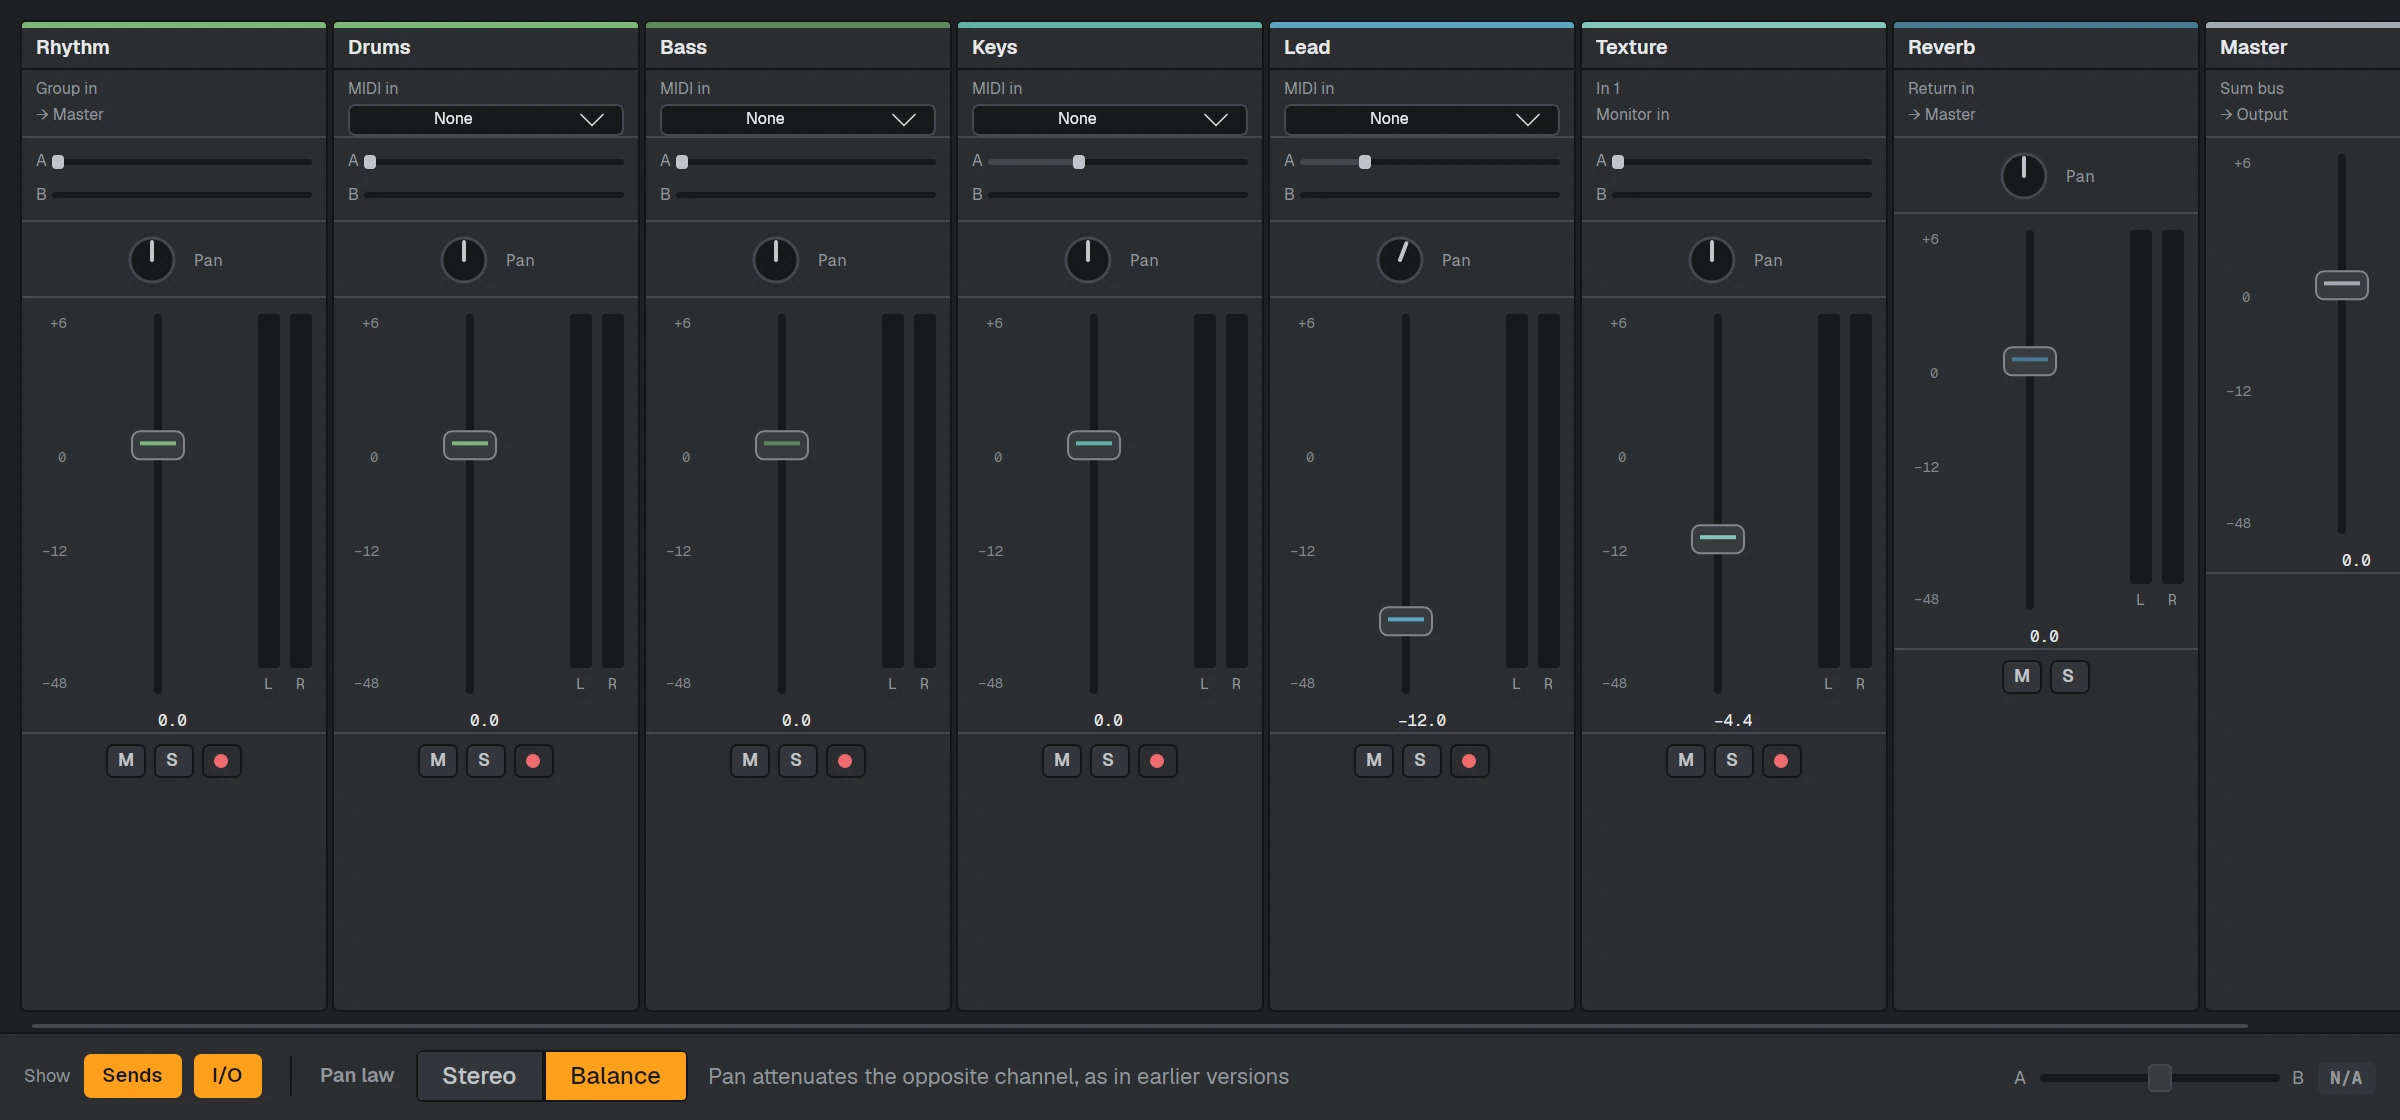
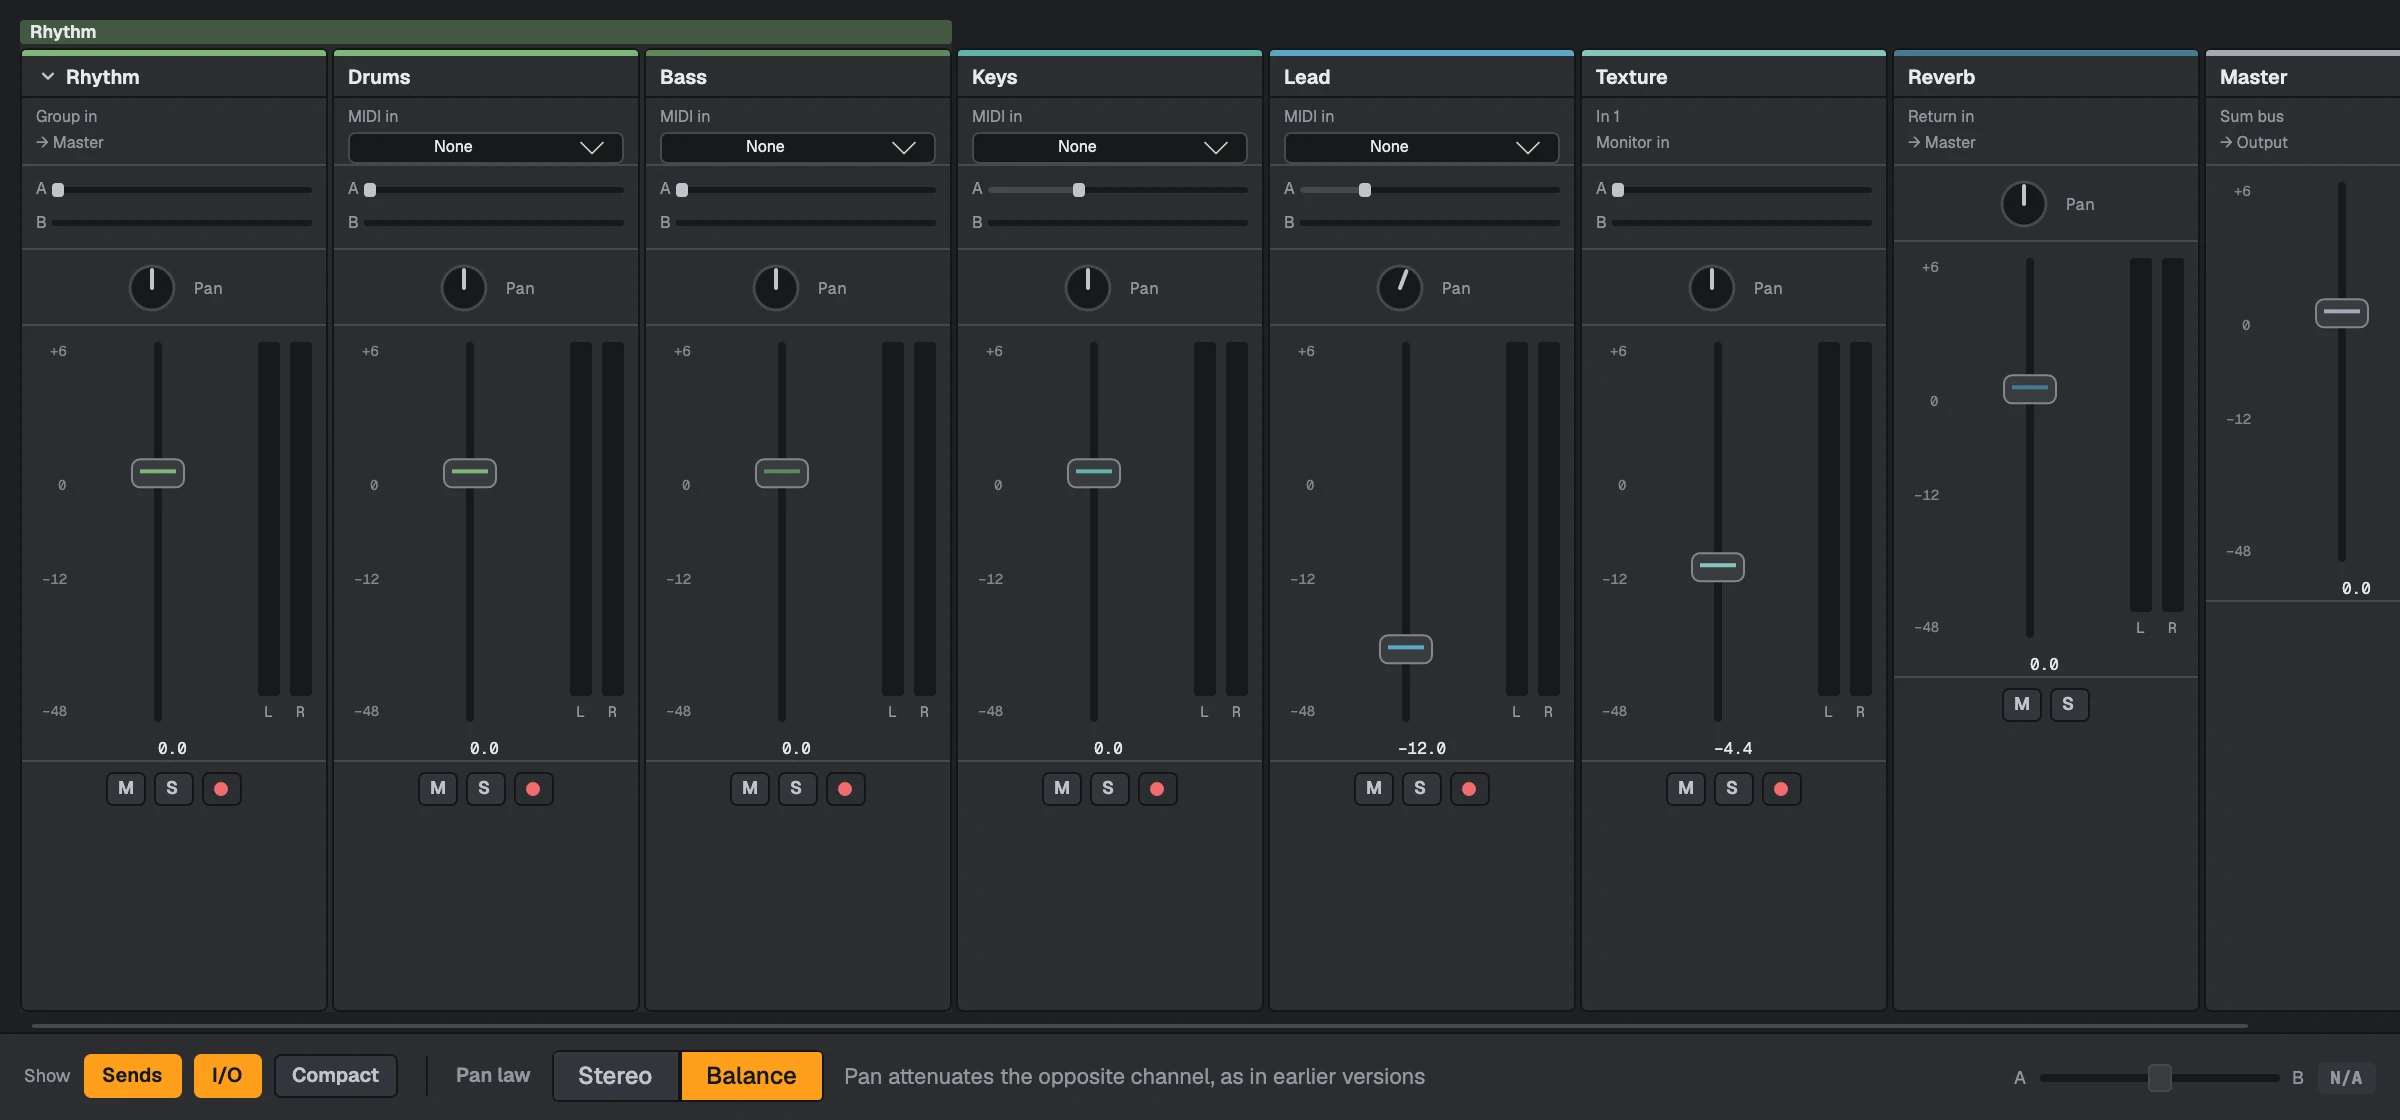
(docs) Mixer groups, folding and compact strips (EN + RU) (#66)
The Mixer page covers the group bars, folding a group (shared with the Arrangement, saved
with the project), the selection outline and compact strips, and says the Mixer docks in the
main window; the Tracks page notes that folding a group folds it in the Mixer too. Three new
app shots in both themes (views/mixer-groups, -group-folded, -compact); the mixer scene gains
group / fold / compact / select args. Refs nota-daw/nota#386.

diff --git a/shots/app/Scenes.cs b/shots/app/Scenes.cs
@@ -465,13 +465,34 @@ public sealed class Scenes
     private void Mixer(Shot shot)
     {
         MainWindow(shot);   // the demo song
+        // specs/070 (app 0.59+): group: "Name:Track,Track" puts demo tracks under a new group;
+        // fold: true folds it; compact: true shows compact strips; select: a demo track or the group.
+        int groupId = -1;
+        if (shot.Str("group") is string g && g.Split(':') is [var gname, var members])
+        {
+            groupId = _engine.CreateGroup(members.Split(',').Select(_demo.Track).ToArray());
+            if (groupId > 0) _engine.SetTrackName(groupId, gname);
+        }
         var view = new MixerView(_engine);
+        var foldType = typeof(App).Assembly.GetType("Nota.App.GroupFold");
+        var foldProp = typeof(MixerView).GetProperty("Fold", BindingFlags.NonPublic | BindingFlags.Instance);
+        object? fold = foldType is not null && foldProp is not null ? Activator.CreateInstance(foldType, true) : null;
+        if (fold is not null) foldProp!.SetValue(view, fold);
+        if (shot.Bool("compact")) typeof(MixerView).GetProperty("Compact")?.SetValue(view, true);
         var win = Host(view, shot.Int("width") ?? 1200, shot.Int("height") ?? 560);
         win.Show();
         view.Refresh();
         Pump(20);
+        if (shot.Bool("fold") && fold is not null && groupId > 0) { foldType!.GetMethod("Toggle")!.Invoke(fold, new object[] { groupId }); Pump(10); }
+        if (shot.Str("select") is string sel)
+        {
+            int id = sel == shot.Str("group")?.Split(':')[0] ? groupId : _demo.Track(sel);
+            typeof(MixerView).GetMethod("FollowSelection", new[] { typeof(int) })?.Invoke(view, new object[] { id });
+            Pump(10);
+        }
         Save(win, shot.Id);
         win.Close();
+        if (groupId > 0) _engine.Ungroup(groupId);   // the demo song is shared by every shot
     }
 
     private void Prefs(Shot shot)
